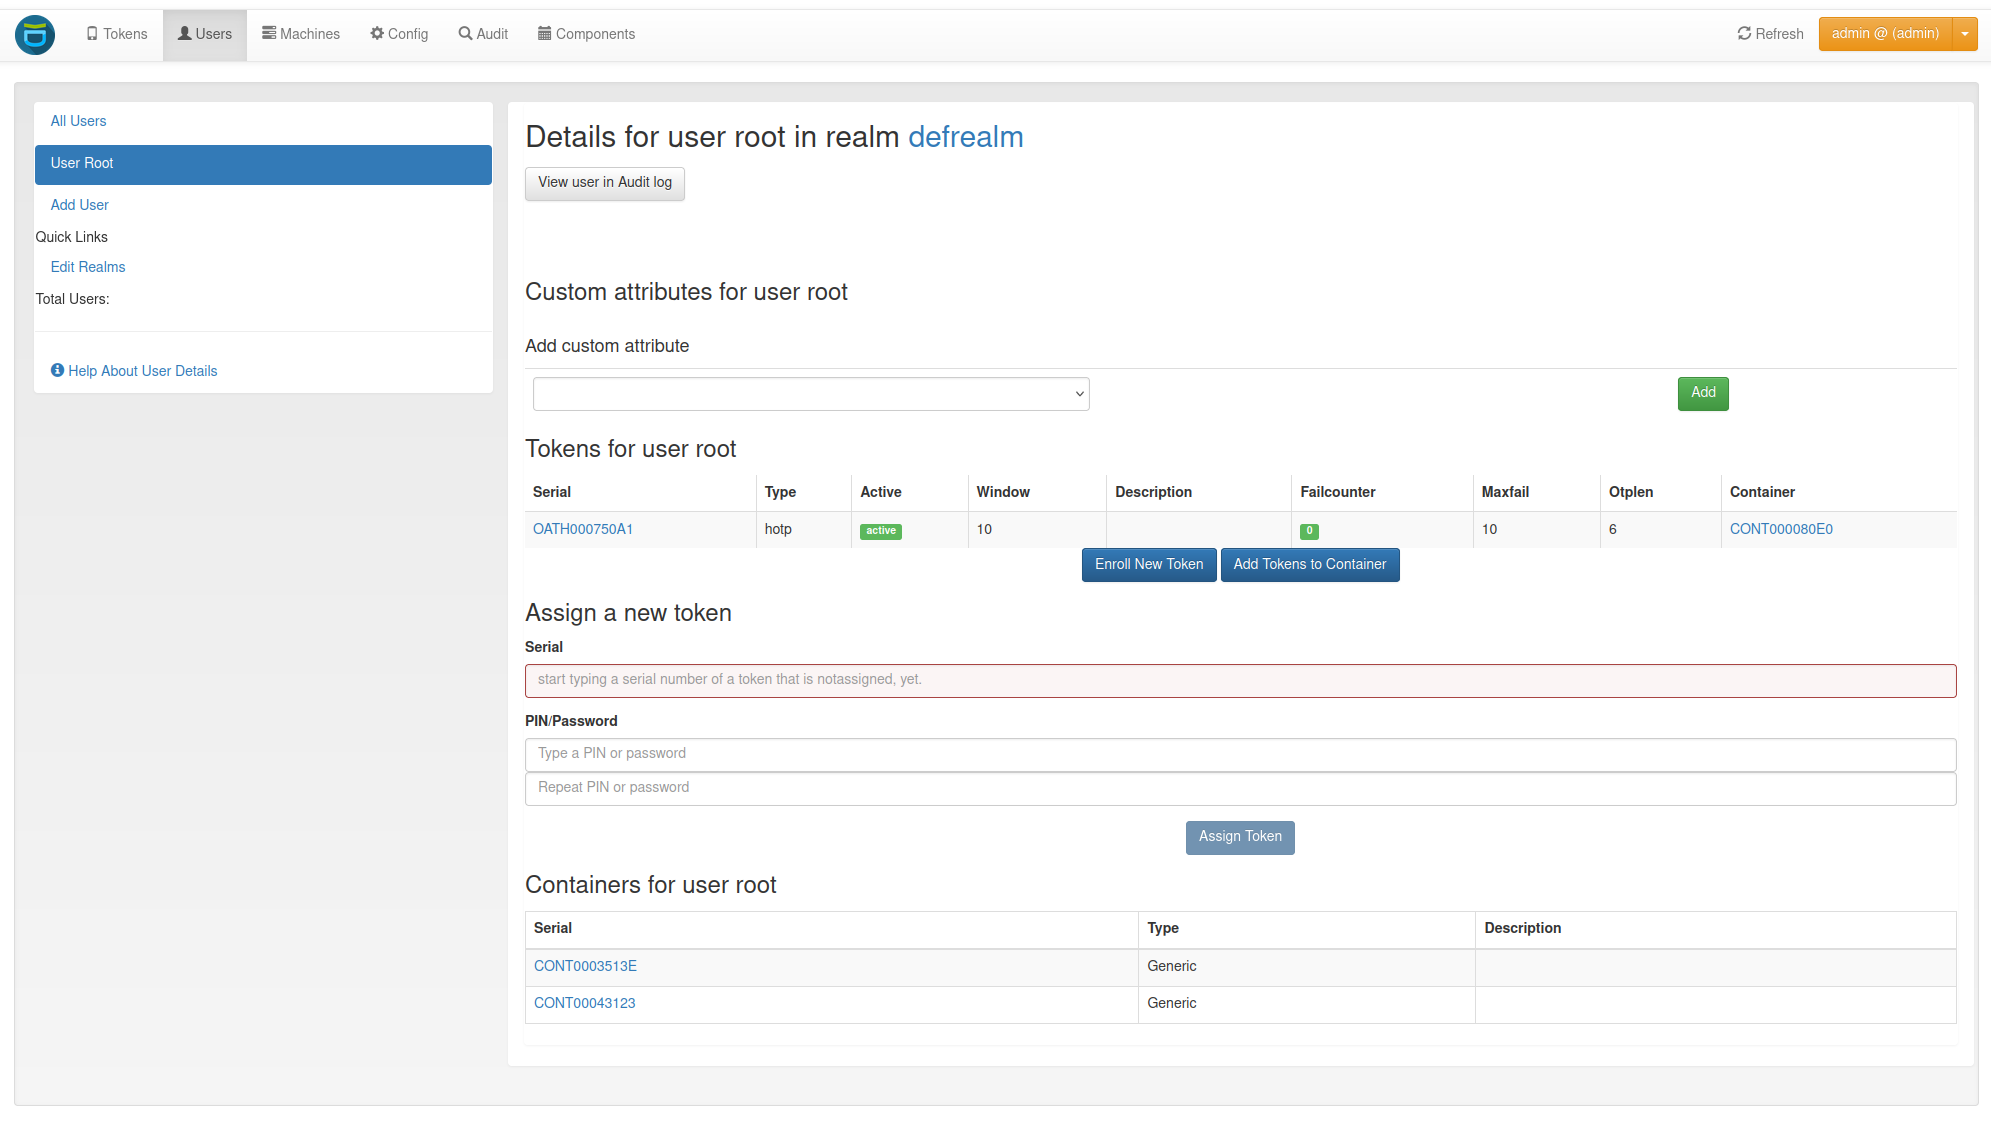
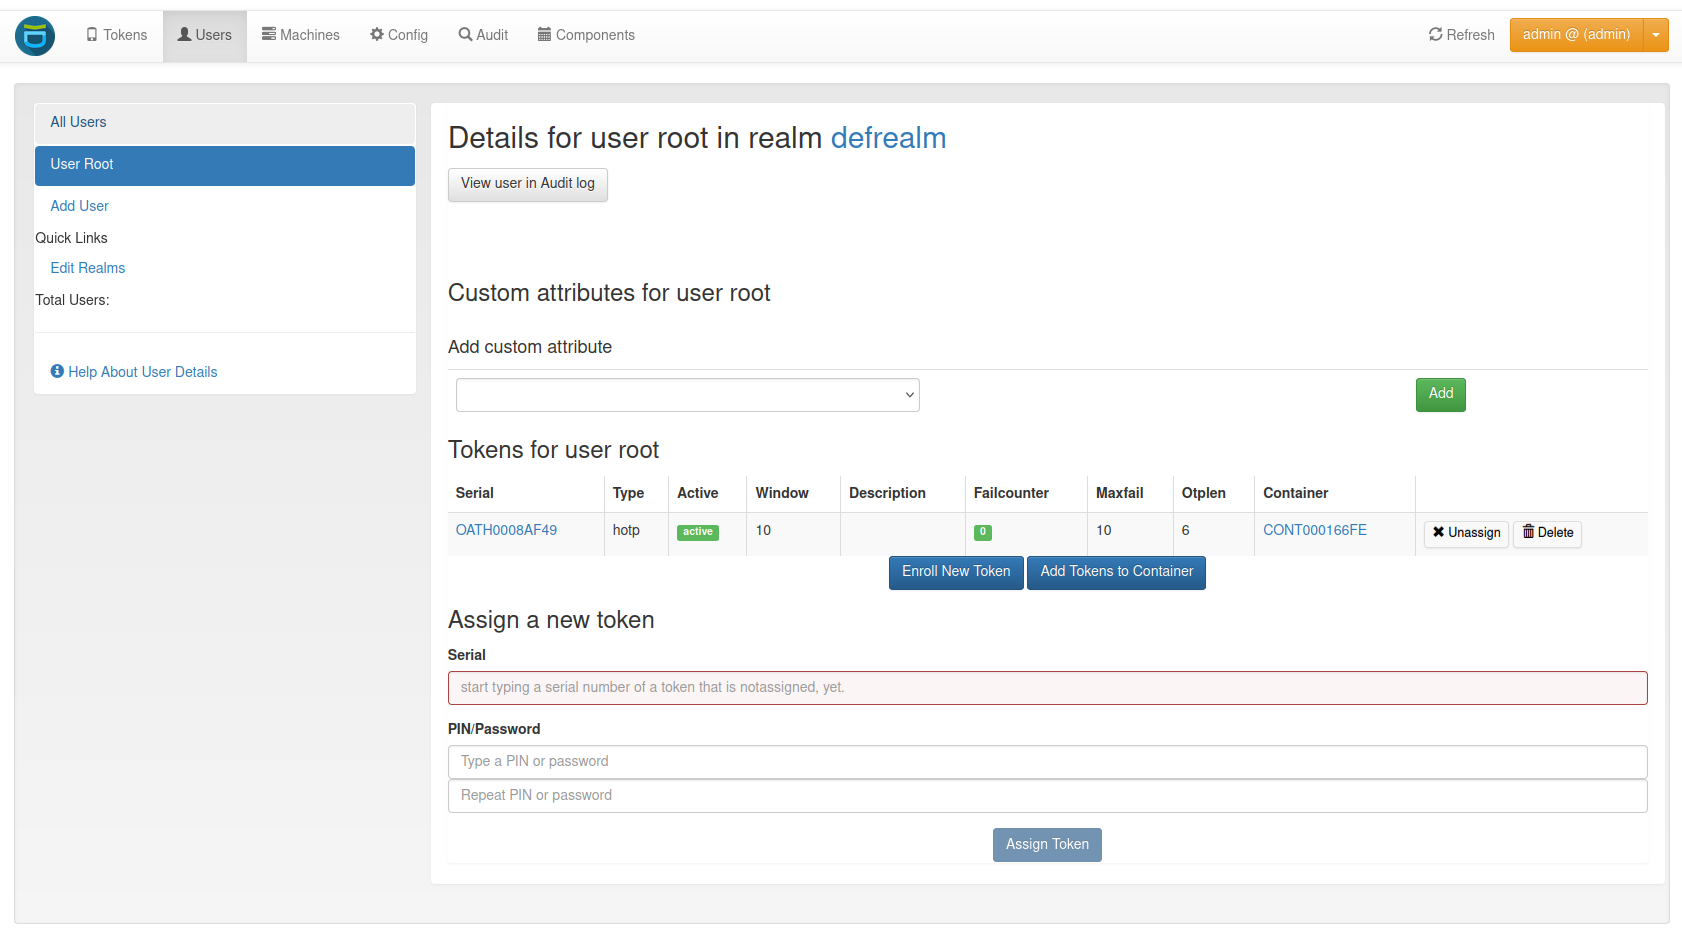
UI improvements for the user details and the container select directive

diff --git a/privacyidea/static/components/user/views/user.details.html b/privacyidea/static/components/user/views/user.details.html
@@ -162,6 +162,7 @@
                 <th translate>Maxfail</th>
                 <th translate>Otplen</th>
                 <th>Container</th>
+                <th></th>
             </tr>
             </thead>
             <tbody>
@@ -172,21 +173,28 @@
                     {{ token.serial }}</a></td>
                 <td>{{ token.tokentype }}</td>
                 <td>
-                <span class="label label-success" ng-show="token.active" translate>
-                    active
-                </span>
-                    <span class="label label-danger" ng-hide="token.active" translate>
-                    disabled
-                </span>
+                    <span class="label label-success" ng-show="token.active"
+                          ng-click="disable(token.serial)"
+                          title="{{ 'Disable token'|translate }}"
+                          translate>active
+                    </span>
+                    <span class="label label-danger" ng-hide="token.active"
+                          ng-click="enable(token.serial)"
+                          title="{{ 'Enable token'|translate }}"
+                          translate>disabled
+                    </span>
                 </td>
                 <td>{{ token.count_window }}</td>
                 <td>{{ token.description }}</td>
-                <td><span class="label"
+                <td>
+                    <span class="label"
+                          title="{{ 'Reset Failcounter'|translate }}"
+                          ng-click="reset(token.serial)"
                           ng-class="{'label-success': token.failcount<=0,
-                                    'label-warning': token.failcount>0,
-                                    'label-danger': token.failcount>=token.maxfail}">
-                    {{ token.failcount }}
-                </span>
+                           'label-warning': token.failcount>0,
+                           'label-danger': token.failcount>=token.maxfail}">
+                        {{ token.failcount }}
+                    </span>
                 </td>
                 <td>{{ token.maxfail }}</td>
                 <td>{{ token.otplen }}</td>
@@ -195,9 +203,38 @@
                        ng-show="checkRight('container_list')">
                         {{ token.container_serial }}
                     </a>
-                    <span ng-hide="checkRight('container_serial')">
+                    <span ng-hide="checkRight('container_list')">
                         {{ token.container_serial }}
                     </span>
+                </td>
+                <td>
+                    <fieldset ng-disabled="!token.tokentype">
+                        <button class="btn btn-transparent btn-danger"
+                                ng-hide="showDialog[token.serial]"
+                                ng-disabled="!checkRight('unassign')"
+                                ng-click="unassign(token.serial)">
+                            <span class="glyphicon glyphicon-remove"></span>
+                            <span translate>Unassign</span>
+                        </button>
+                        <button class="btn btn-transparent btn-danger" ng-click="deleteToken(token.serial, true)"
+                                ng-disabled="!checkRight('delete')"
+                                ng-hide="(!checkRight('delete') && hide_buttons) || showDialog[token.serial]">
+                            <span class="glyphicon glyphicon-trash"></span>
+                            <span translate>Delete</span>
+                        </button>
+                        <span ng-show="showDialog[token.serial]" translate> Delete this token? </span>
+                        <button class="btn btn-danger"
+                                ng-click="deleteToken(token.serial, false)"
+                                ng-show="showDialog[token.serial] && checkRight('delete') && !hide_buttons"
+                                ng-disabled="!checkRight('delete')">
+                            <span class="glyphicon glyphicon-trash"></span>
+                            <span translate>Delete</span>
+                        </button>
+                        <button class="btn btn-danger" ng-click="showDialog[token.serial]=false"
+                                ng-show="showDialog[token.serial]">
+                            <span translate>Cancel</span>
+                        </button>
+                    </fieldset>
                 </td>
             </tr>
             </tbody>
@@ -205,7 +242,7 @@
     </div>
 
     <div class="table-responsive form-group" ng-show="!showTokenOfUser">
-        <table class="table table-bordered table-striped">
+        <table class="table table-bordered table-striped table-capitalize-header">
             <thead>
             <tr>
                 <th translate>Selection</th>
@@ -314,7 +351,7 @@
                 <thead>
                 <tr>
                     <th translate>
-                        serial
+                        Serial
                     </th>
                     <th translate>
                         Type

diff --git a/privacyidea/static/components/token/views/token.html b/privacyidea/static/components/token/views/token.html
@@ -12,7 +12,7 @@
             </button>
 
             <div class="navbar-collapse collapse myTokenNavbar">
-                <ul class="nav navbar-nav">
+                <ul class="nav navbar-nav nav-capitalize">
                     <li ng-class="{active: $state.includes('token.list')
                     || $state.includes('token.enroll') || $state.includes('token.import')
                     || $state.includes('token.challenges') || $state.includes('token.applications')
@@ -44,7 +44,7 @@
         <!-- Token sidebar panel -->
         <div class="col-lg-3 sticky" ng-hide="token_wizard || !tokenMenu">
             <div class="pa-sidebar panel">
-                <ul class="nav nav-pills nav-stacked">
+                <ul class="nav nav-pills nav-stacked nav-capitalize">
                     <li role="presentation"
                         ng-class="{active: $state.includes('token.list')}">
                         <a ui-sref="token.list">
@@ -164,7 +164,7 @@
         <!-- Container sidebar panel -->
         <div class="col-lg-3 sticky" ng-show="!tokenMenu">
             <div class="pa-sidebar panel">
-                <ul class="nav nav-pills nav-stacked">
+                <ul class="nav nav-pills nav-stacked nav-capitalize">
                     <li role="presentation"
                         ng-class="{active: $state.includes('token.containerlist')}"
                         ng-show="checkRight('container_list')">

diff --git a/privacyidea/static/components/user/controllers/userControllers.js b/privacyidea/static/components/user/controllers/userControllers.js
@@ -295,6 +295,28 @@ angular.module("privacyideaApp")
                 $rootScope.returnTo = "user.details({realmname:$scope.realmname, username:$scope.username})";
             };
 
+            // single token function
+            $scope.reset = function (serial) {
+                TokenFactory.reset(serial, $scope._getUserToken);
+            };
+            $scope.disable = function (serial) {
+                TokenFactory.disable(serial, $scope._getUserToken);
+            };
+            $scope.enable = function (serial) {
+                TokenFactory.enable(serial, $scope._getUserToken);
+            };
+            $scope.showDialog = {};
+            $scope.deleteToken = function (token_serial, dialog) {
+                if (dialog) {
+                    $scope.showDialog[token_serial] = true;
+                } else {
+                    TokenFactory.delete(token_serial, $scope._getUserToken);
+                }
+            };
+            $scope.unassign = function (serial) {
+                TokenFactory.unassign(serial, $scope._getUserToken);
+            };
+
             $scope.getUserDetails();
             $scope._getUserToken();
             $scope.getEditableAttributes();

diff --git a/privacyidea/static/components/token/controllers/tokenDetailController.js b/privacyidea/static/components/token/controllers/tokenDetailController.js
@@ -64,14 +64,16 @@ myApp.controller("tokenDetailController", ['$scope', 'TokenFactory',
             $scope.showAddToContainer = ($scope.containerSerial && $scope.containerSerial !== "createnew");
         });
         $scope.addToContainer = function () {
-            ContainerFactory.addTokenToContainer({
-                container_serial: $scope.containerSerial,
-                serial: $scope.tokenSerial
-            }, function (data) {
-                if (data.result.value) {
-                    $scope.tokenIsInContainer = true;
-                }
-            });
+            if ($scope.containerSerial !== "none" && $scope.containerSerial !== "createnew") {
+                ContainerFactory.addTokenToContainer({
+                    container_serial: $scope.containerSerial,
+                    serial: $scope.tokenSerial
+                }, function (data) {
+                    if (data.result.value) {
+                        $scope.tokenIsInContainer = true;
+                    }
+                });
+            }
         };
         $scope.removeFromContainer = function () {
             ContainerFactory.removeTokenFromContainer({

diff --git a/privacyidea/static/components/directives/controllers/directives.js b/privacyidea/static/components/directives/controllers/directives.js
@@ -580,6 +580,8 @@ myApp.directive("selectOrCreateContainer", ["instanceUrl", "versioningSuffixProv
                         // Always add an extra container at the beginning to represent the creation of a new container
                         scope.containers.unshift({displayString: "Create new container", serial: "createnew"});
                     }
+                    // Placeholder for no container selected
+                    scope.containers.unshift({displayString: "No Container", serial: "none"});
                 }
 
                 scope.setDefaultSerialSelection = function () {
@@ -587,7 +589,7 @@ myApp.directive("selectOrCreateContainer", ["instanceUrl", "versioningSuffixProv
                         if (AuthFactory.checkRight("container_create")) {
                             scope.containerSerial = "createnew";
                         } else {
-                            scope.containerSerial = null;
+                            scope.containerSerial = "none";
                         }
                     }
                 }

diff --git a/privacyidea/static/components/token/views/token.details.html b/privacyidea/static/components/token/views/token.details.html
@@ -590,7 +590,7 @@
 <div ng-show="!tokenIsInContainer" translate>
     The token is currently in no container.
 </div>
-<div ng-show="checkRight('container_add_token')">
+<div ng-show="checkRight('container_add_token') && checkRight('container_list')">
     <div select-or-create-container
          container-serial="containerSerial"
          disable-selection="tokenIsInContainer"
@@ -601,7 +601,7 @@
     </div>
     <div class="text-center" ng-show="showAddToContainer && !tokenIsInContainer">
         <button type="button" class="btn btn-primary"
-                ng-disabled="!checkRight('container_add_token')"
+                ng-disabled="!checkRight('container_add_token') || containerSerial === 'none'"
                 ng-click="addToContainer()">
             <span translate>Add to Container</span>
         </button>

diff --git a/privacyidea/static/components/user/views/user.html b/privacyidea/static/components/user/views/user.html
@@ -3,7 +3,7 @@
     <div class="row">
         <div class="col-lg-3 sticky">
             <div class="pa-sidebar panel">
-                <ul class="nav nav-pills nav-stacked"
+                <ul class="nav nav-pills nav-stacked nav-capitalize"
                     ng-show="loggedInUser.role === 'user' &&
                         checkRight('userlist')">
                    <li role="presentation" ng-class=
@@ -13,7 +13,7 @@
                        </a>
                    </li>
                 </ul>
-                <ul class="nav nav-pills nav-stacked"
+                <ul class="nav nav-pills nav-stacked nav-capitalize"
                     ng-show="loggedInUser.role == 'admin'">
                     <li role="presentation"
                         ng-class="{active: $state.includes('user.list')}"><a

diff --git a/privacyidea/static/components/token/controllers/tokenControllers.js b/privacyidea/static/components/token/controllers/tokenControllers.js
@@ -509,7 +509,7 @@ myApp.controller("tokenEnrollController", ["$scope", "TokenFactory", "$timeout",
             $scope.form.validity_period_start = date_object_to_string($scope.form.validity_period_start);
             $scope.form.validity_period_end = date_object_to_string($scope.form.validity_period_end);
 
-            if ($scope.form.container_serial === "createnew") {
+            if ($scope.form.container_serial === "createnew" || $scope.form.container_serial === "none") {
                 delete $scope.form.container_serial
             }
 

diff --git a/privacyidea/static/components/token/views/token.enroll.html b/privacyidea/static/components/token/views/token.enroll.html
@@ -70,7 +70,7 @@
         </div>
 
         <!-- ============ Container ====================== -->
-        <div ng-show="checkRight('container_add_token')">
+        <div ng-show="checkRight('container_add_token') && checkRight('container_list')">
             <h4 translate>Assign Container</h4>
             <div select-or-create-container container-serial="form.container_serial"
                  disable-selection="tokenIsInContainer"

diff --git a/doc/webui/user_details.rst b/doc/webui/user_details.rst
@@ -16,6 +16,26 @@ You see a list of the users tokens and change to the :ref:`token_details`.
 On the bottom, a list of the user's containers is displayed. You can click on the serial to change to the container
 details (:ref:`container_view`).
 
+Enable and Disable Tokens
+..........................
+
+A token can be enabled or disabled by clicking on the active or rather disable label.
+
+Reset Failcounter
+..................
+
+To reset the failcounter of a token, click on the number in the failcounter column.
+
+Unassign Tokens
+...............
+
+To unassign the user from a token click on the `unassign` button in the token's row.
+
+Delete Tokens
+..............
+
+A token can be deleted by clicking on the `delete` button in the token's row. You will be asked if you are
+sure you want to delete the token. Confirm and the token will be deleted.
 
 Enroll tokens
 .............
